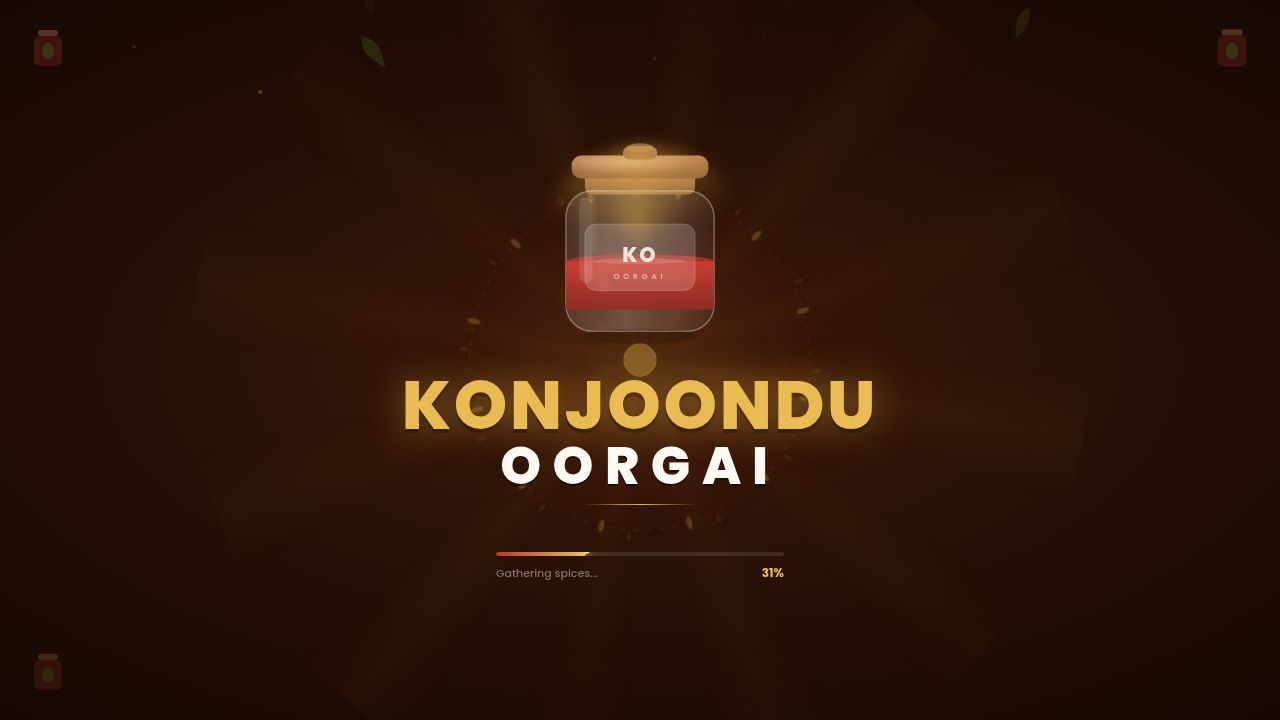
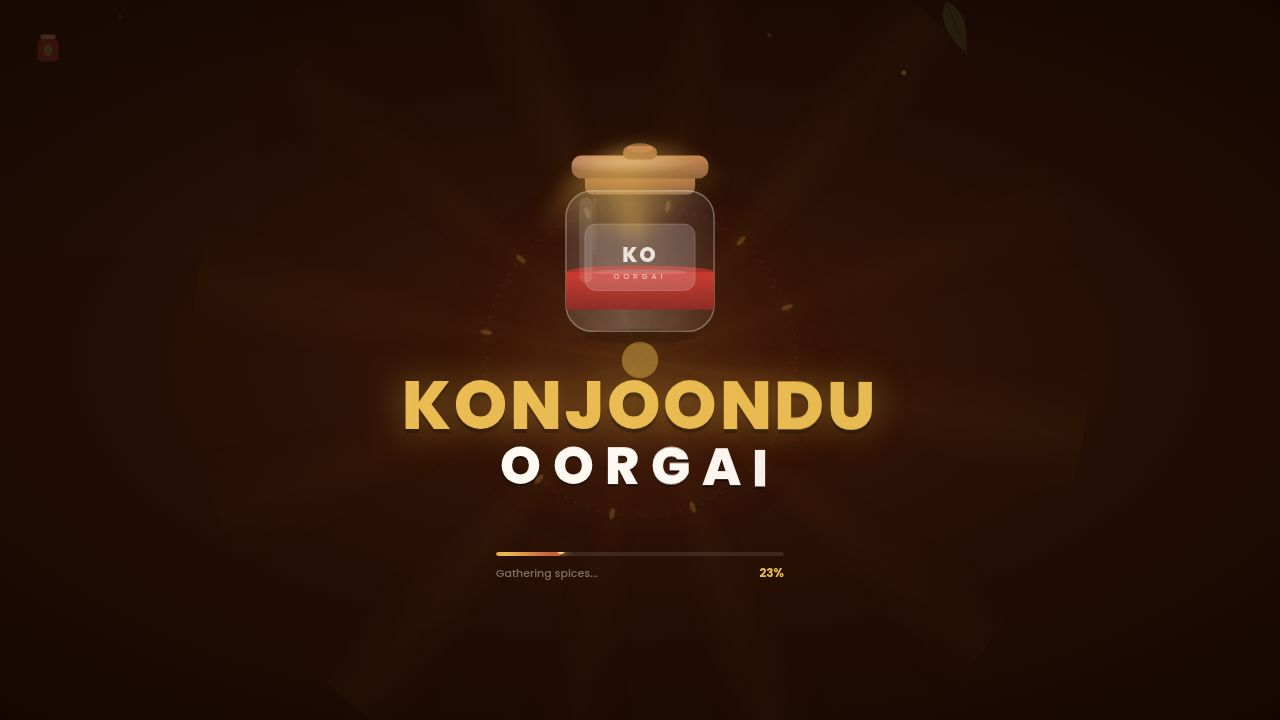
Improve Telegram notifications and set up application secrets
Update Telegram notification logic to use HTML parsing and escape special characters. Configure Firebase, Razorpay, Telegram, and email credentials.

Replit-Commit-Author: Agent
Replit-Commit-Session-Id: a35ef67d-a883-42d6-b7c5-36c38958e499
Replit-Commit-Checkpoint-Type: full_checkpoint
Replit-Commit-Event-Id: 57d403a5-1c16-4216-97f2-171aae33e1cb
Replit-Commit-Screenshot-Url: https://storage.googleapis.com/screenshot-production-us-central1/68c51624-7e05-4626-8ac0-f8851e606d25/a35ef67d-a883-42d6-b7c5-36c38958e499/dYjAzhm
Replit-Helium-Checkpoint-Created: true

diff --git a/artifacts/api-server/src/routes/orders.ts b/artifacts/api-server/src/routes/orders.ts
@@ -163,19 +163,21 @@ async function notifyTelegram(
   const chatId = process.env.TELEGRAM_CHAT_ID;
   if (!token || !chatId) return;
 
+  const esc = (s: string) => s.replace(/&/g, "&amp;").replace(/</g, "&lt;").replace(/>/g, "&gt;");
+
   const itemLines = order.items
-    .map((i) => `  • ${i.productName} (${i.size}) ×${i.quantity} = ₹${i.price * i.quantity}`)
+    .map((i) => `  • ${esc(i.productName)} (${esc(i.size)}) ×${i.quantity} = ₹${i.price * i.quantity}`)
     .join("\n");
 
   const text = [
-    `🛒 *New Order — ${order.id}*`, ``,
-    `👤 ${order.customer.name}`,
-    `📞 ${order.customer.phone}`,
-    order.customer.email ? `📧 ${order.customer.email}` : null,
-    `📍 ${order.customer.address}`, ``,
-    `*Items:*`, itemLines, ``,
-    `💰 *Total: ₹${order.totalAmount.toLocaleString("en-IN")}*`,
-    order.paymentId ? `✅ Paid · ${order.paymentId}` : `⏳ Payment pending`,
+    `🛒 <b>New Order — ${esc(order.id)}</b>`, ``,
+    `👤 ${esc(order.customer.name)}`,
+    `📞 ${esc(order.customer.phone)}`,
+    order.customer.email ? `📧 ${esc(order.customer.email)}` : null,
+    `📍 ${esc(order.customer.address)}`, ``,
+    `<b>Items:</b>`, itemLines, ``,
+    `💰 <b>Total: ₹${order.totalAmount.toLocaleString("en-IN")}</b>`,
+    order.paymentId ? `✅ Paid · ${esc(order.paymentId)}` : `⏳ Payment pending`,
   ]
     .filter((l) => l !== null)
     .join("\n");
@@ -184,7 +186,7 @@ async function notifyTelegram(
     const r = await fetch(`https://api.telegram.org/bot${token}/sendMessage`, {
       method: "POST",
       headers: { "Content-Type": "application/json" },
-      body: JSON.stringify({ chat_id: chatId, text, parse_mode: "Markdown" }),
+      body: JSON.stringify({ chat_id: chatId, text, parse_mode: "HTML" }),
     });
     const data = (await r.json()) as { ok: boolean; description?: string };
     if (!data.ok) console.warn("[telegram] API error:", data.description);